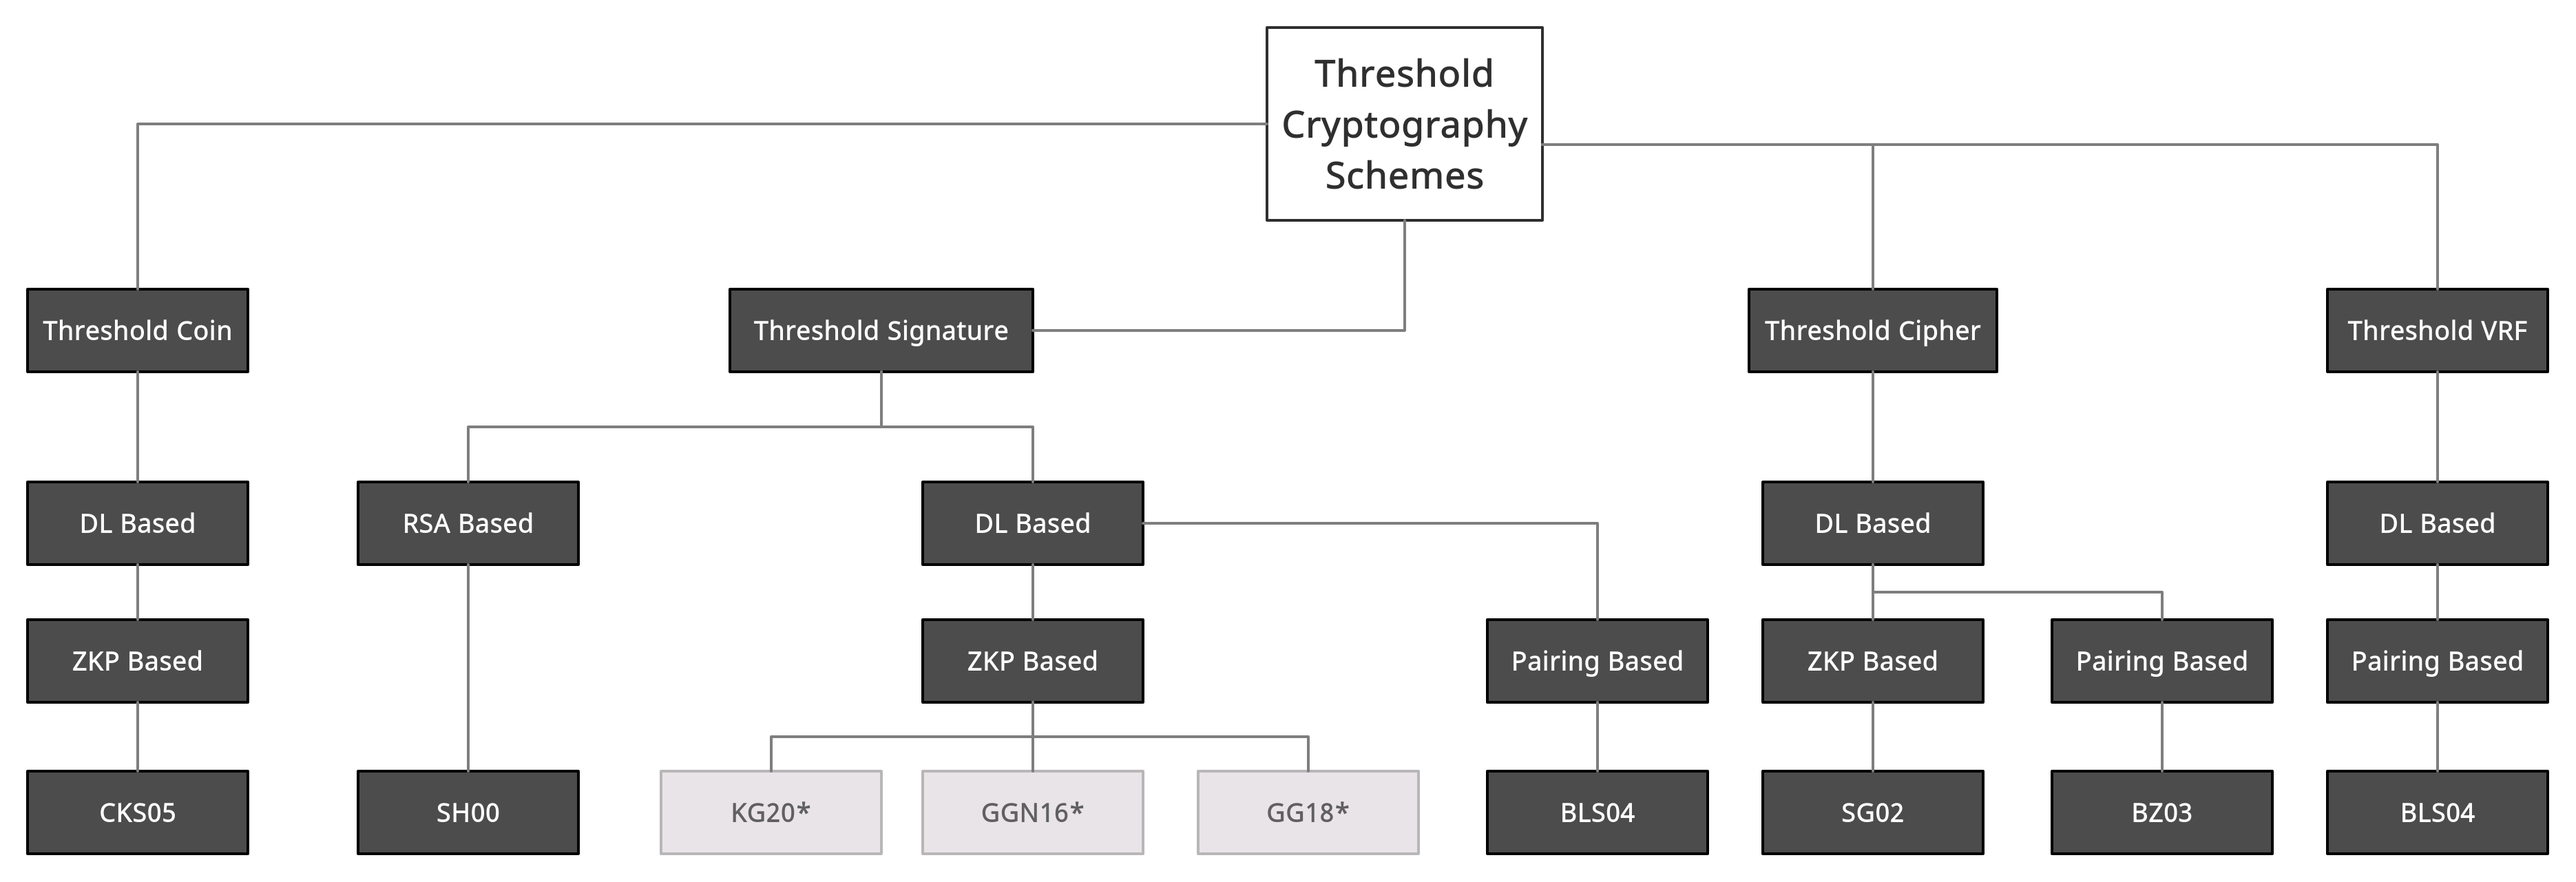
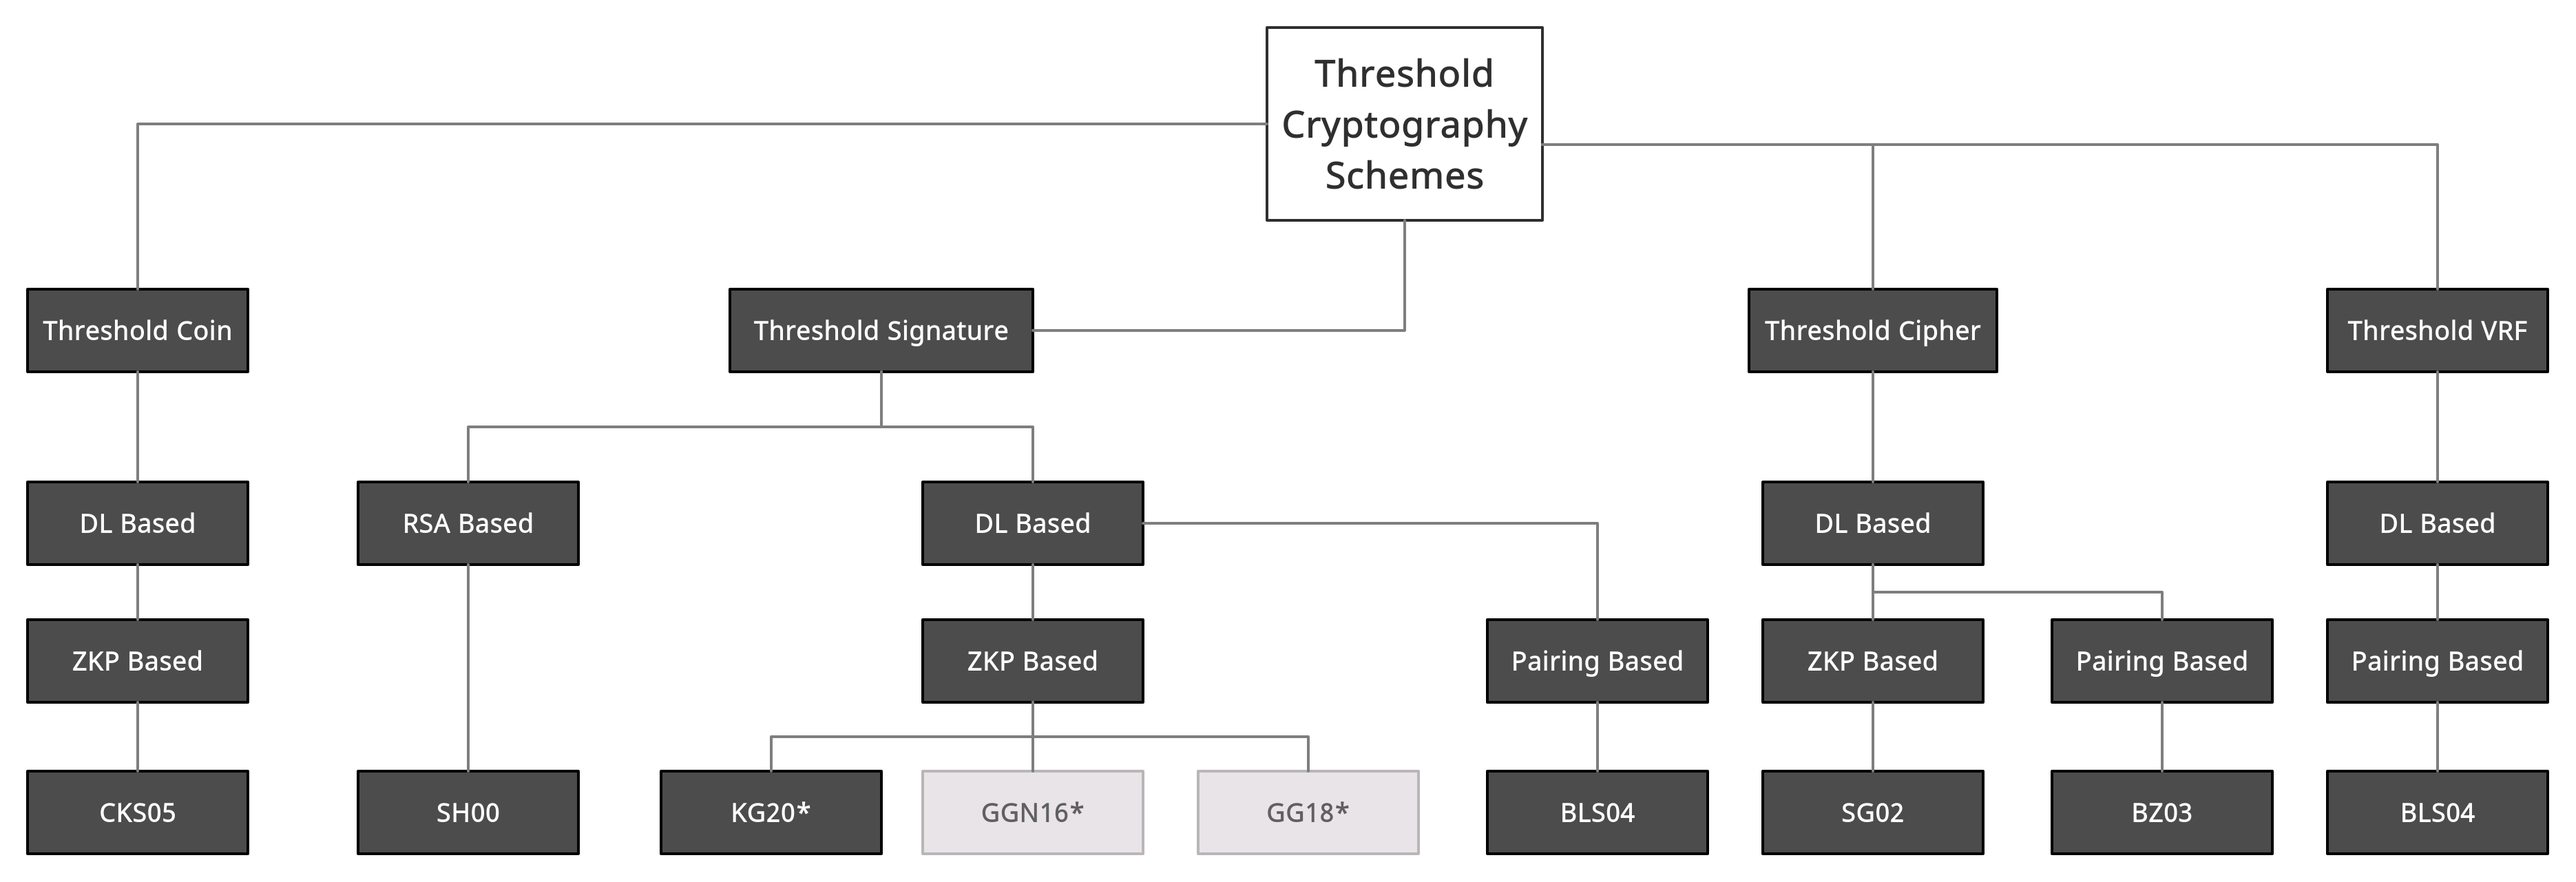
Update design folder

Changed region(s): [[0.2481, 0.8743, 0.3411, 0.968]]

diff --git a/design/schemes/readme.md b/design/schemes/readme.md
@@ -3,6 +3,6 @@
 ![](../img/schemes_reverse.png)
 
 *: (Semi-)interactive schemes
-[GGN16](https://link.springer.com/content/pdf/10.1007%2F978-3-319-39555-5_9.pdf), [GG18](https://eprint.iacr.org/2019/114.pdf)
+[KG20](https://eprint.iacr.org/2020/852.pdf), [GGN16](https://link.springer.com/content/pdf/10.1007%2F978-3-319-39555-5_9.pdf), [GG18](https://eprint.iacr.org/2019/114.pdf)
 
 *Image generated using creately.com (https://app.creately.com/diagram/K5aZab4jKKj/edit)*
